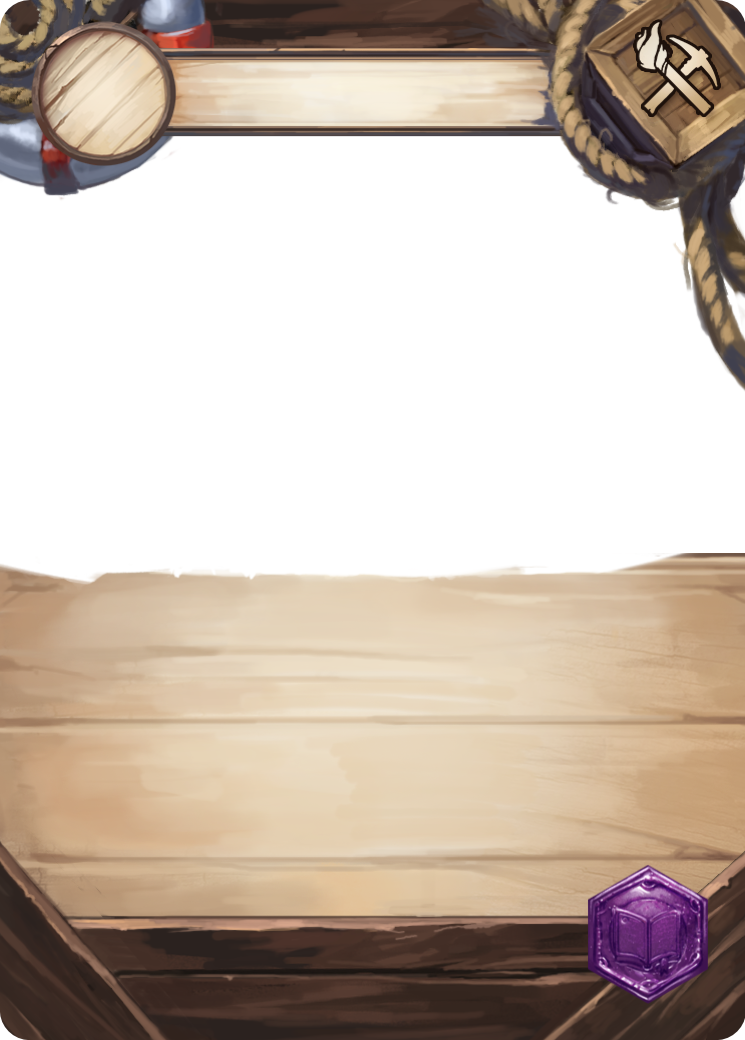
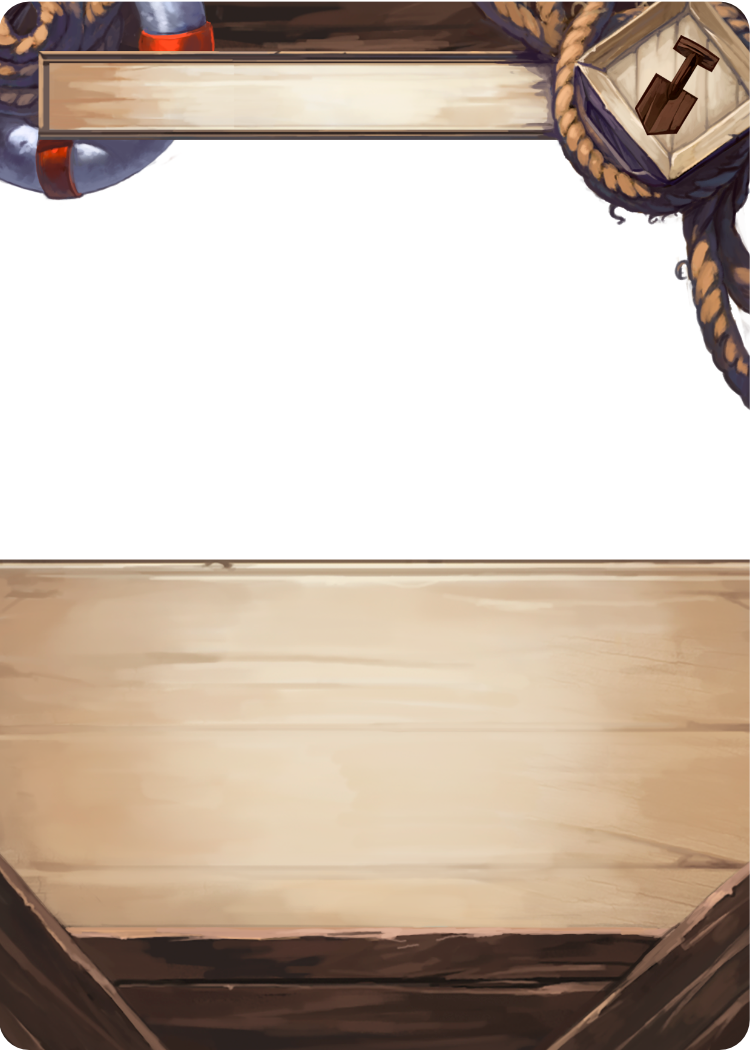
Relic effects update + minor bugfixes

diff --git a/src/components/functions/processActiveEffects.js b/src/components/functions/processActiveEffects.js
@@ -179,6 +179,7 @@ export function processActiveEffect(tCard, cardIndex, tLocation, tPlayerState, t
                 if (tLocation.state === LOCATION_STATE.guarded && (isPlayerInLocation(tLocation, tPlayerState)
                     || tLocation.adventurers.length === 0)) {
                     tPlayerState.defeatedGuardians.push(tLocation.guardian.id);
+                    tPlayerState.guardianRewards.push(tLocation.guardian.effects);
                     tLocation.guardian = null;
                     tLocation.state = LOCATION_STATE.explored;
                     tLocations = updateLocations(tLocation, tLocations);
@@ -192,22 +193,10 @@ export function processActiveEffect(tCard, cardIndex, tLocation, tPlayerState, t
             break;
 
         case EFFECT.defeatGuardianOnOwnedLocation:
-            /*if (tCard !== null && tCard.type === CARD_TYPE.guardian) {
-                tPlayerState.victoryCards.push(GUARDIAN_IDs[tCard.id]);
-                tPlayerState.victoryCards[tPlayerState.victoryCards.length - 1].state = CARD_STATE.victoryCards;
-                tPlayerState = removeCard(tCard, tPlayerState);
-                if (tCard.state === CARD_STATE.active) {
-                    let lockEffects = gainLockedResourceBack(tCard.locked, []);
-                    const effectsResult = processEffects(tCard, cardIndex, tPlayerState, lockEffects,
-                        null, tStore, null, null, null);
-                    tPlayerState = effectsResult.tPlayerState;
-                    tStore = effectsResult.tStore;
-                }
-                tPlayerState.activeEffects.splice(0, 1);
-            }*/
             if (tLocation) {
                 if (tLocation.state === LOCATION_STATE.guarded && tLocation.adventurers[0] === tPlayerState.playerIndex) {
                     tPlayerState.defeatedGuardians.push(tLocation.guardian.id);
+                    tPlayerState.guardianRewards.push(tLocation.guardian.effects);
                     tLocation.guardian = null;
                     tLocation.state = LOCATION_STATE.explored;
                     tLocations = updateLocations(tLocation, tLocations);

diff --git a/src/data/cards.js b/src/data/cards.js
@@ -72,7 +72,6 @@ import beastKillerImg from "../img/cardImages/artifacts/beastKiller.png"
 import flameJewelImg from "../img/cardImages/artifacts/flameJewel.png"
 import inscribedBladeImg from "../img/cardImages/artifacts/inscribedBlade.png"
 import transmutationImg from "../img/cardImages/artifacts/transmutation.png"
-import magicDoor from "../img/cardImages/artifacts/magicDoor.gif"
 
 
 import {EFFECT} from "./effects.mjs";
@@ -623,7 +622,7 @@ export const ITEMS = Object.freeze({
         transportAmount: 1,
         effectsText: <div className="effectsText"><b>Exile</b> this card to <DefeatedGuardian/> on any site that is
             not occupied by another player.</div>,
-        effects: [EFFECT.defeatGuardianOnOwnOrEmptyLocation],
+        effects: [EFFECT.destroyThisCard ,EFFECT.defeatGuardianOnOwnOrEmptyLocation],
         image: beartrapImg,
         cost: 2,
         points: 1
@@ -1144,7 +1143,7 @@ export const ARTIFACTS = Object.freeze({
                 and Refresh him and</div>,
         effects: [EFFECT.exchangeAssistant],
         isGuarded: false,
-        image: magicDoor,
+        image: null,
         cost: 3,
         points: 2
     },

diff --git a/src/components/functions/getJsxSymbol.js b/src/components/functions/getJsxSymbol.js
@@ -106,6 +106,8 @@ export function getJsxSymbol(effect) {
             return <GoldAssistant/>;
         case EFFECT.refreshAllAssistants:
             return <AssistantUpgrade/>;
+        case EFFECT.refreshSilverAssistant:
+            return <SilverAssistant/>;
         case EFFECT.discard:
             return <Discard/>;
         case EFFECT.gainOrUpgradeRelic:
